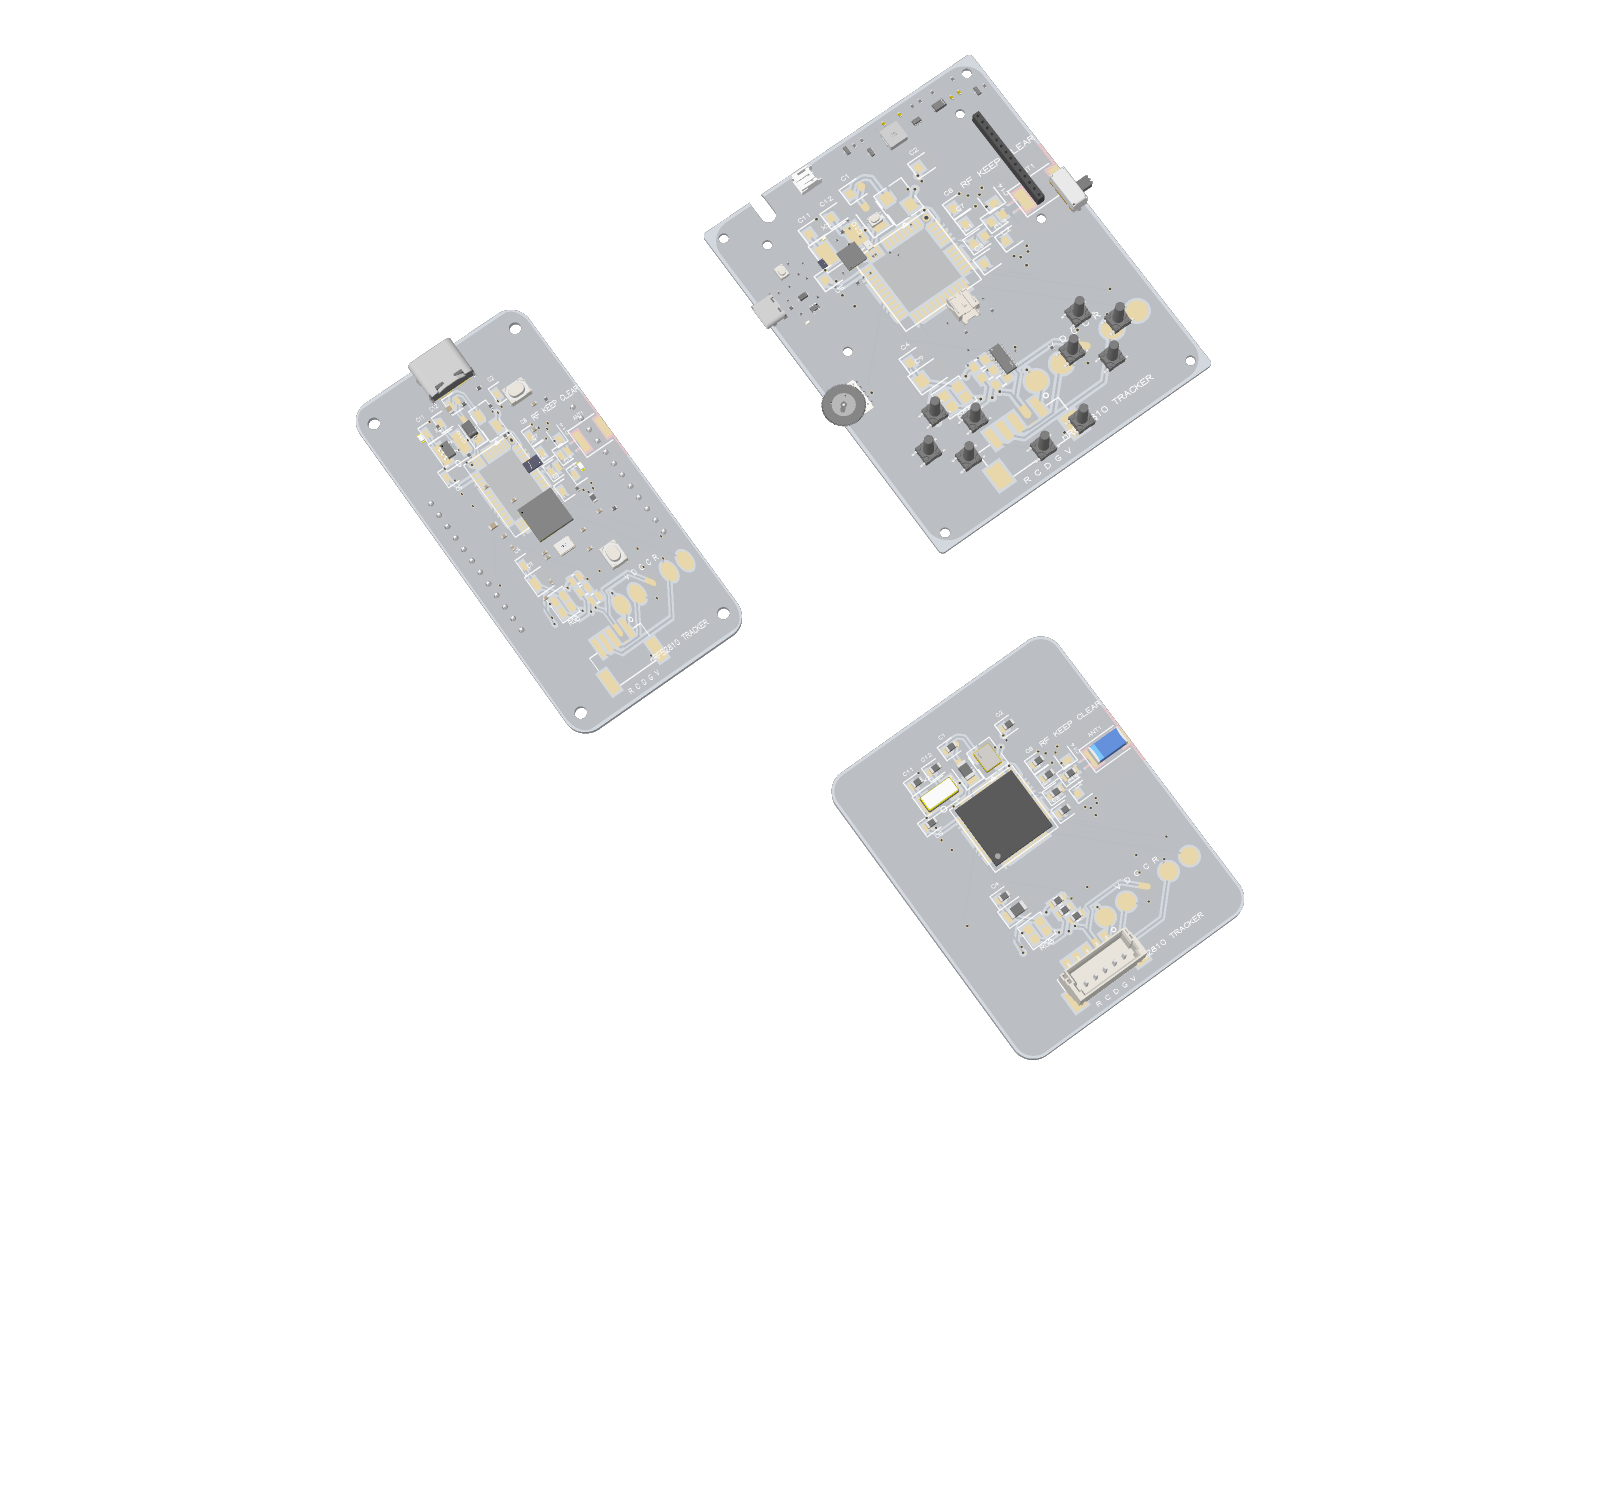
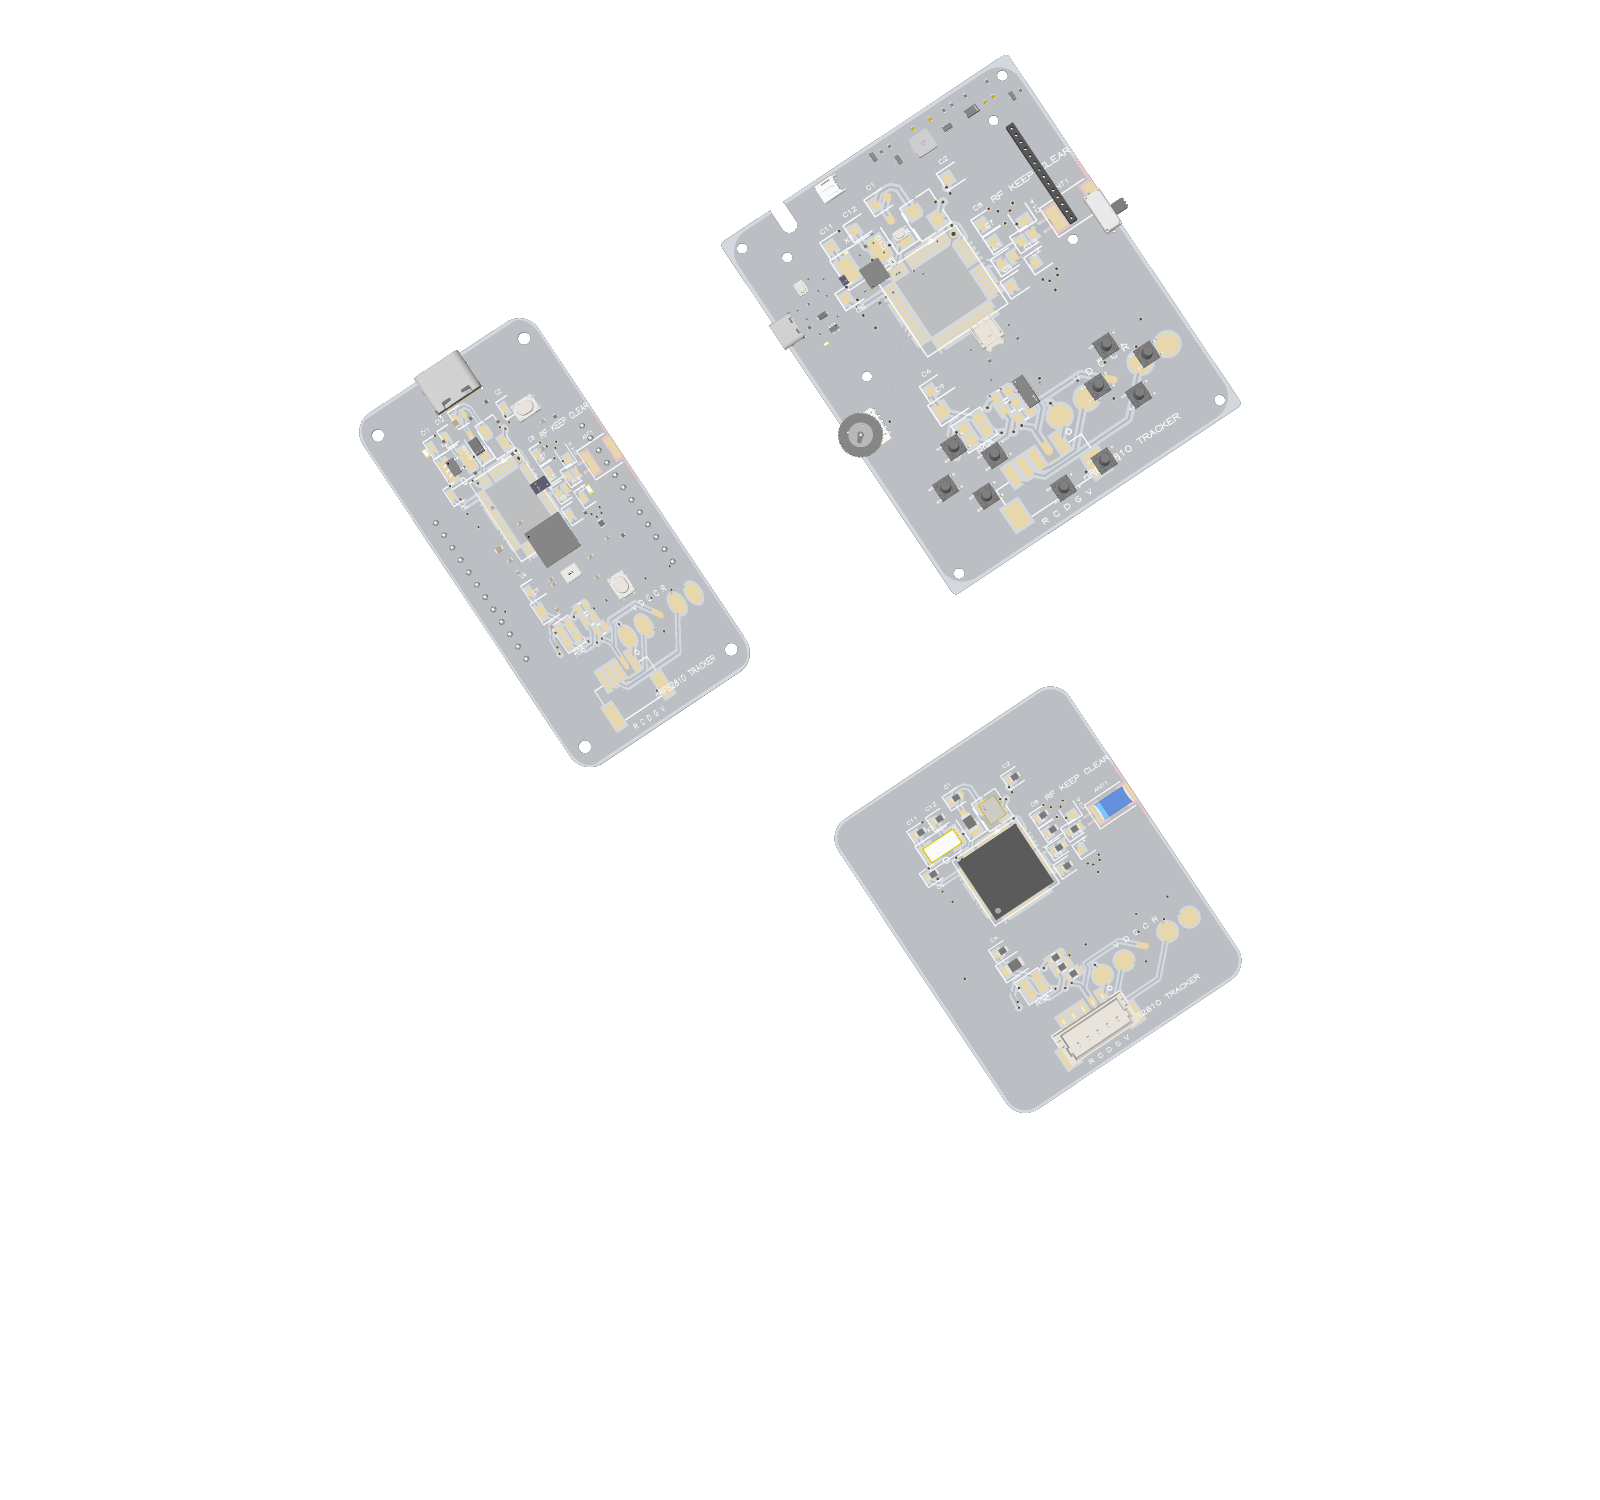
Refine hero board presentation

Changed region(s): [[0.4375, 0.0307, 0.7812, 0.3987], [0.5, 0.4293, 0.7812, 0.7667], [0.2188, 0.184, 0.4688, 0.5213]]

diff --git a/index.html b/index.html
@@ -1732,46 +1732,6 @@
             box-shadow: none;
         }
 
-        .landing-grid-line {
-            position: absolute;
-            z-index: 1;
-            display: block;
-            pointer-events: none;
-            background: var(--line);
-        }
-
-        .landing-grid-v-one {
-            width: 1px;
-            height: 100%;
-            top: 0;
-            left: 68.4%;
-        }
-
-        .landing-grid-v-two {
-            width: 1px;
-            height: 100%;
-            top: 0;
-            left: 84.2%;
-        }
-
-        .landing-grid-h-one {
-            width: 31.6%;
-            height: 1px;
-            top: 168px;
-            right: 0;
-        }
-
-        .landing-grid-path {
-            width: 131px;
-            height: 66px;
-            left: 58.1%;
-            top: 337px;
-            border-left: 1px solid var(--line);
-            border-top: 1px solid var(--line);
-            border-radius: 11px 0 0;
-            background: transparent;
-        }
-
         .landing-hero-art {
             position: absolute;
             z-index: 7;
@@ -1983,14 +1943,6 @@
                 transform: translateX(-50%);
             }
 
-            .landing-grid-v-one {
-                left: 64%;
-            }
-
-            .landing-grid-v-two {
-                left: 84%;
-            }
-
             .landing-proof-panel p {
                 margin-left: 32px;
                 font-size: 18px;
@@ -2055,11 +2007,6 @@
                 width: min(480px, 92vw);
                 height: 240px;
                 top: 456px;
-            }
-
-            .landing-grid-path,
-            .landing-grid-h-one {
-                display: none;
             }
 
             .landing-proof-panel {
@@ -2144,11 +2091,6 @@
     <main id="main-content">
         <section class="landing-hero-shell" aria-labelledby="hero-title">
             <div class="landing-hero-main">
-                <span class="landing-grid-line landing-grid-v-one" aria-hidden="true"></span>
-                <span class="landing-grid-line landing-grid-v-two" aria-hidden="true"></span>
-                <span class="landing-grid-line landing-grid-h-one" aria-hidden="true"></span>
-                <span class="landing-grid-line landing-grid-path" aria-hidden="true"></span>
-
                 <div class="landing-hero-copy">
                     <h1 id="hero-title">One Framework to<br>Design Production<br>PCBs in TypeScript</h1>
                     <p>Version every board in git. Preview instantly, then let agents<br class="landing-desktop-break">
